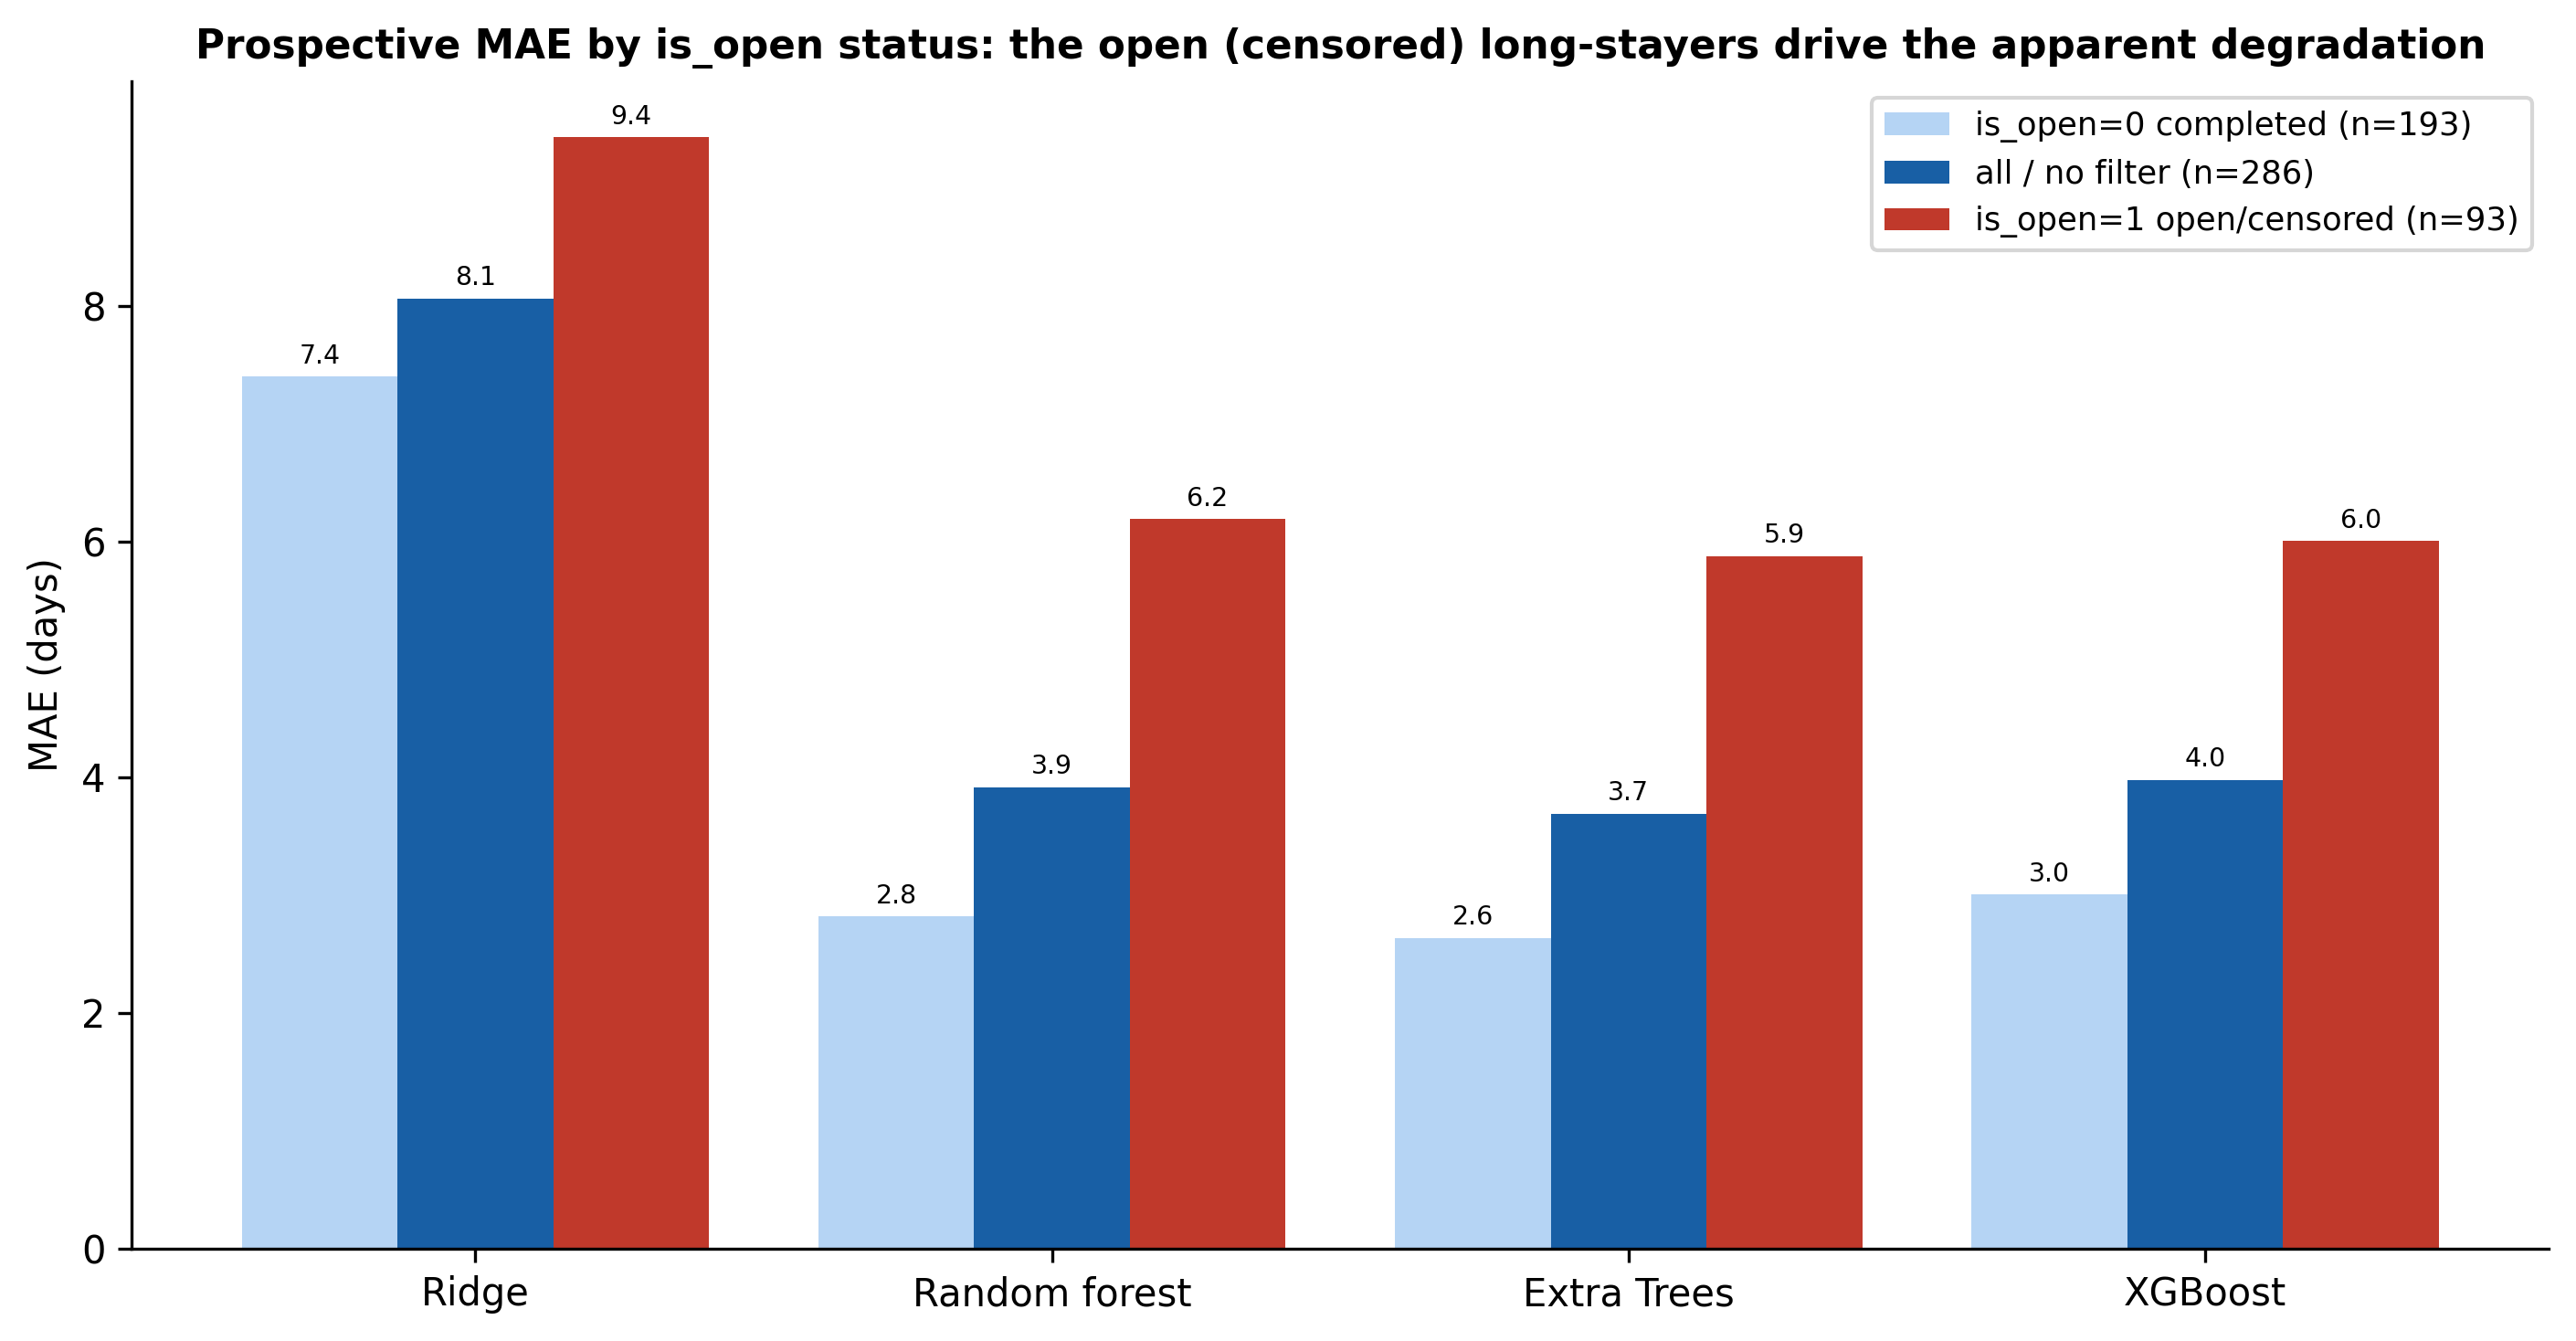
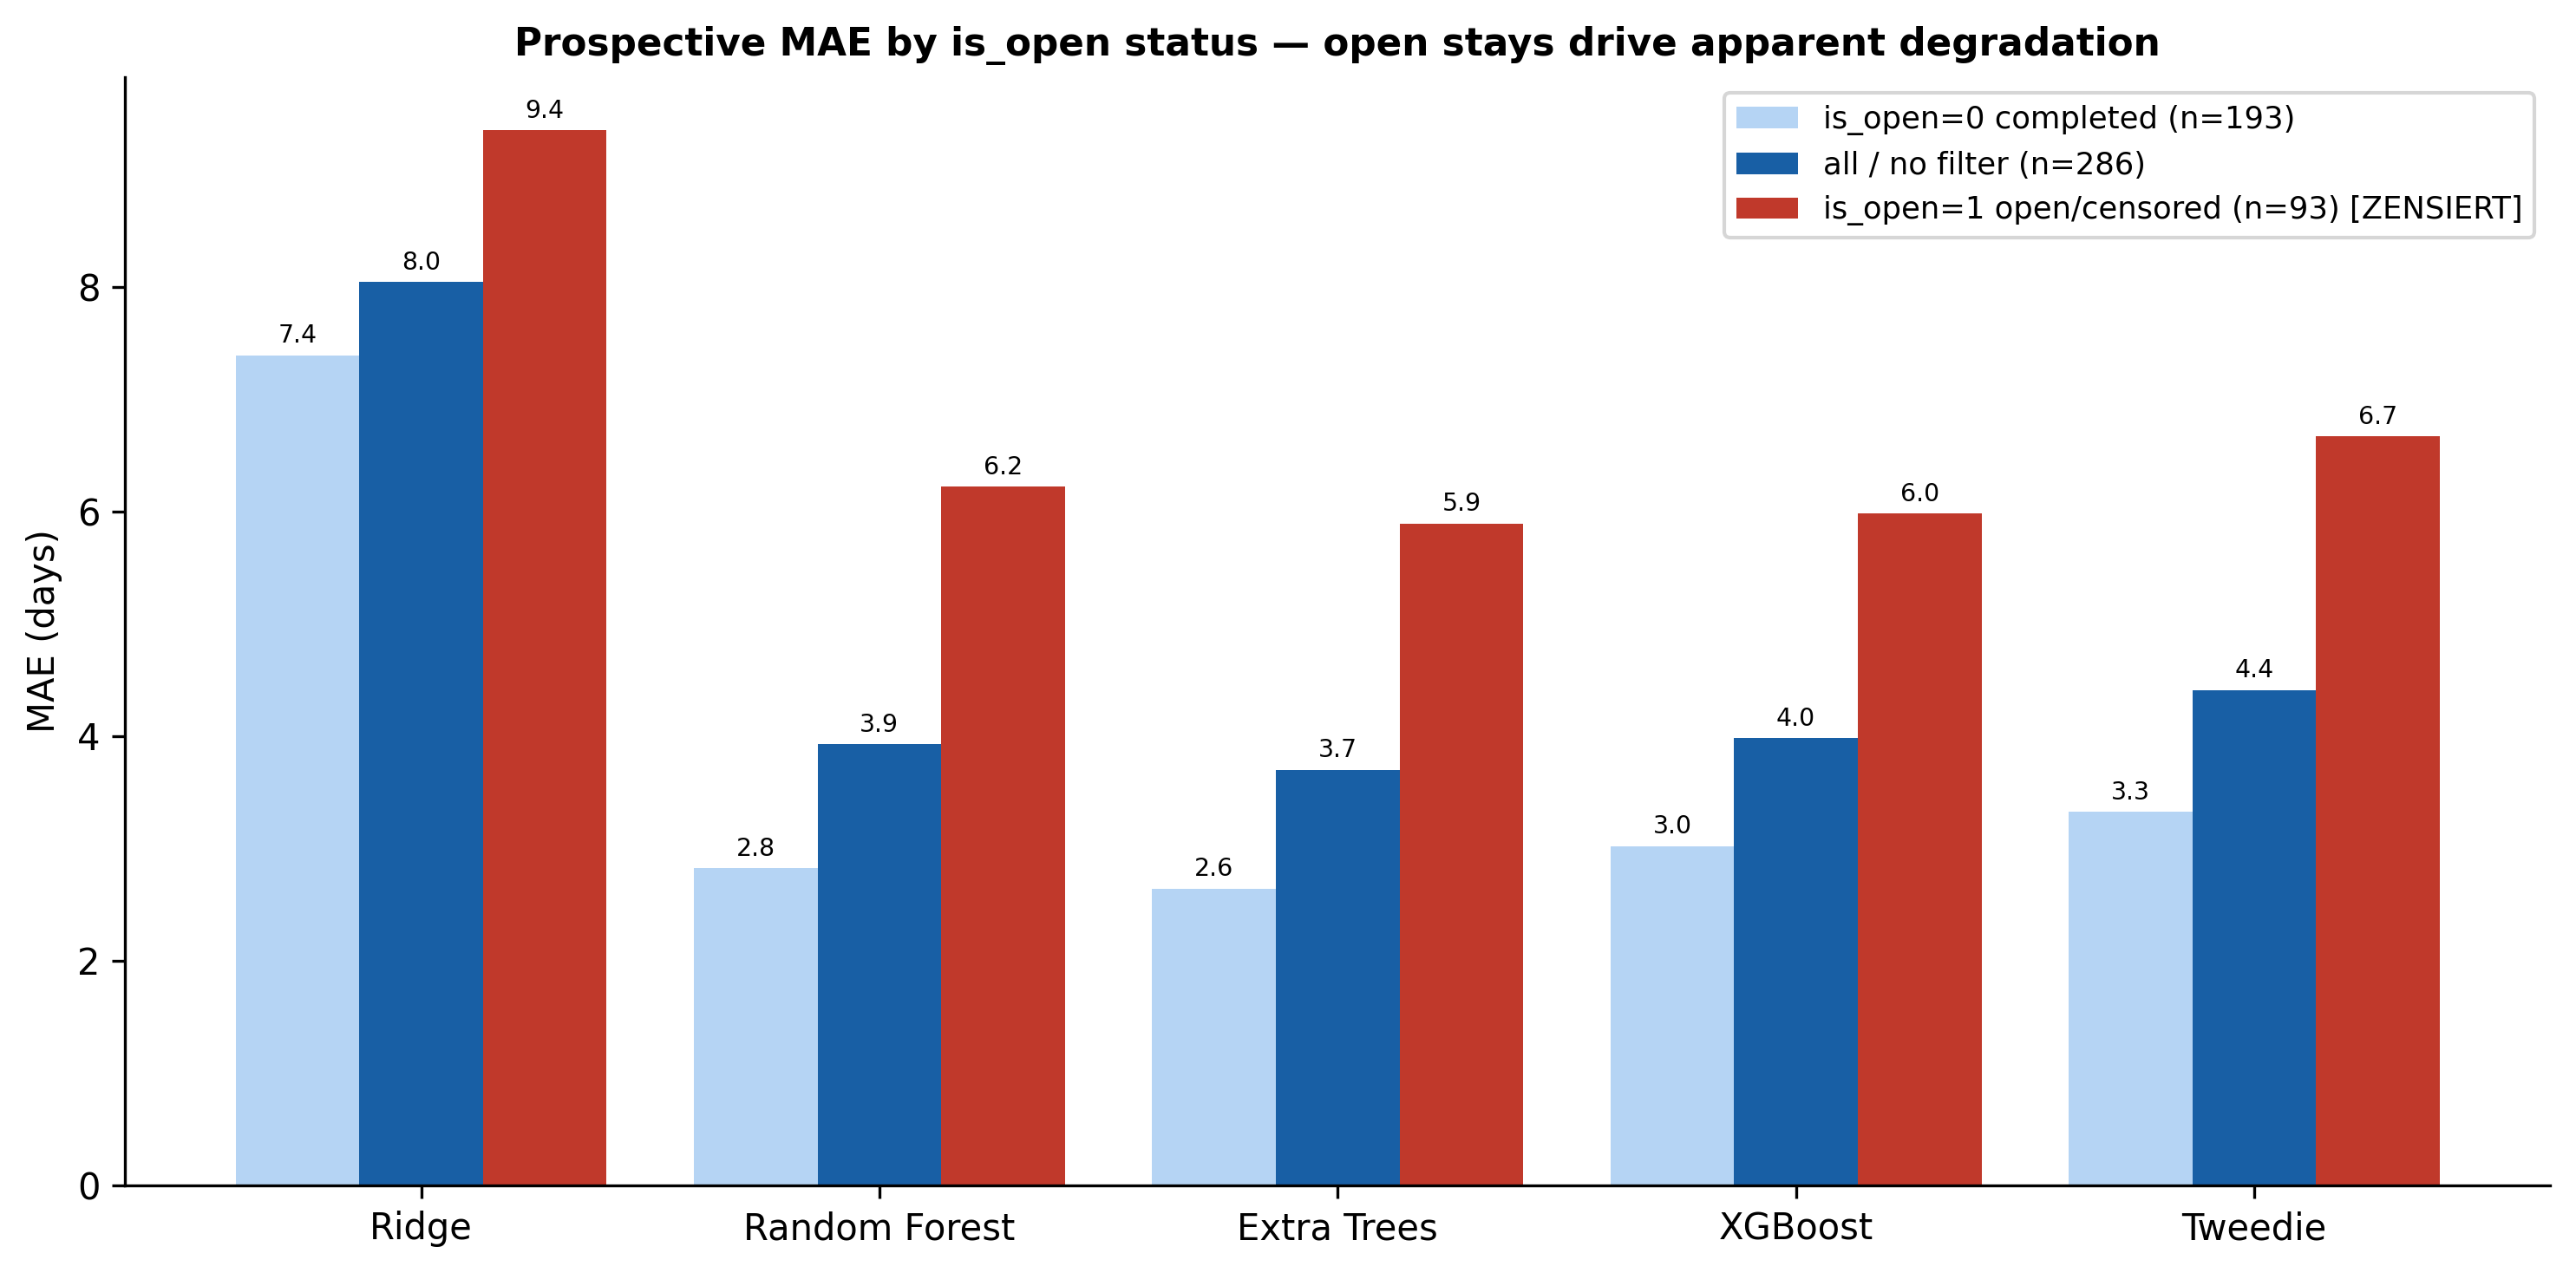
Update no_isopen exploratory: 5 models (add canonical Tweedie), new figures
- 08_no_isopen_sensitivity.py: add canonical Tweedie from summary.json (plain pipeline),
  update all model lists to 5 models, add two-panel MAE+R² figure, add 4-bin subgroup figure
- fig_model_comparison_no_isopen.png: new — retro vs prospective MAE+R² panels (5 models, n=286)
- fig_subgroup_mae_no_isopen.png: new — MAE by LoS subgroup 1-2/2-4/4-7/>7d (n=286)
- metrics_subgroups_no_isopen.csv: new — subgroup table
- updated CSVs and fig_mae_by_isopen.png to include Tweedie

diff --git a/exploratory/no_isopen/08_no_isopen_sensitivity.py b/exploratory/no_isopen/08_no_isopen_sensitivity.py
@@ -61,6 +61,7 @@ def pre(scale=False):
     ns=[("imp",SimpleImputer(strategy="median"))]+([("sc",StandardScaler())] if scale else [])
     return ColumnTransformer([("num",Pipeline(ns),numc),("cat",Pipeline([("imp",SimpleImputer(strategy="most_frequent")),("ohe",OneHotEncoder(handle_unknown="ignore"))]),cat)])
 def ttr(reg,scale=False): return TransformedTargetRegressor(Pipeline([("pre",pre(scale)),("mdl",reg)]),func=np.log1p,inverse_func=np.expm1)
+def plain(reg): return Pipeline([("pre",pre(False)),("mdl",reg)])  # Tweedie: eigener Loss/Link, kein log1p
 # beste Hyperparameter aus der kanonischen Analyse (summary.json) laden -> konsistent zum finalen Modell
 import json
 bp=json.loads((AN/"canonical"/"summary.json").read_text(encoding="utf-8"))["best_params"]
@@ -70,6 +71,8 @@ models={
  "ExtraTrees":ttr(ExtraTreesRegressor(**bp["ExtraTrees"],random_state=RS,n_jobs=1)),
  "XGBoost":ttr(XGBRegressor(**bp["XGBoost"],random_state=RS,n_jobs=1,tree_method="hist")),
 }
+if "Tweedie" in bp:
+    models["Tweedie"]=plain(XGBRegressor(objective="reg:tweedie",**bp["Tweedie"],random_state=RS,n_jobs=1,tree_method="hist"))
 print(f"Training (beste Hyperparameter aus summary.json) ... ExtraTrees={bp['ExtraTrees']}"); [m.fit(X.iloc[tr],y[tr]) for m in models.values()]
 
 # ---------------- prospektive Kohorte + Senior-Match ----------------
@@ -172,10 +175,9 @@ print(f"weiterhin per Median ersetzt: {len(miss)} ->", dict(collections.Counter(
 fillrate=pd.to_numeric(Xp[[c for c in present if c!='oebenekurz']].apply(lambda s:pd.to_numeric(s,errors='coerce')).notna().sum(axis=1))/ (len(present)-1)
 print(f"Median-Befuellungsgrad pro Stay: {fillrate.median()*100:.0f}% (min {fillrate.min()*100:.0f}%, max {fillrate.max()*100:.0f}%)")
 
-# ============ ZUSATZAUSWERTUNG: ALTER ANSATZ (ohne is_open-Korrektur) ============
-# Offene (is_open=1) Stays werden EINBEZOGEN und gegen ihre ERFASSTE LoS bewertet.
-# ACHTUNG: bei is_open=1 ist los_days ZENSIERT (Untergrenze) -> Fehler sind Artefakte
-#          des Vergleichs gegen unvollstaendige Outcomes. Nur als Sensitivitaet/Kontrast.
+# ============ AUSWERTUNG OHNE is_open-Filter (5 Modelle + Tweedie) ============
+# ACHTUNG: bei is_open=1 ist los_days ZENSIERT (bisher vergangene Zeit, nicht endgueltige LoS)
+# -> Fehler bei is_open=1-Stays sind durch zensierte Zielwerte verzerrt. Nur als Sensitivitaet.
 import matplotlib; matplotlib.use("Agg"); import matplotlib.pyplot as plt
 plt.rcParams.update({"font.family":"DejaVu Sans","axes.spines.top":False,"axes.spines.right":False})
 OUTX=AN/"exploratory_no_isopen"; OUTX.mkdir(parents=True,exist_ok=True)
@@ -183,90 +185,129 @@ OUTX=AN/"exploratory_no_isopen"; OUTX.mkdir(parents=True,exist_ok=True)
 yt=mg2["los_days"].to_numpy(float)
 isopen=pd.to_numeric(mg2["is_open"],errors="coerce").fillna(0).astype(int).to_numpy()
 arzt=mg2["arzt"].to_numpy(float)
+
 def met(y,p,label,sub=None):
     if sub is not None: y,p=y[sub],p[sub]
     p=np.clip(np.asarray(p,float),0,None); ae=np.abs(y-p)
     return {"Modell":label,"n":int(len(y)),"MAE":round(float(ae.mean()),3),"MedianAE":round(float(np.median(ae)),3),
             "RMSE":round(float(np.sqrt(mean_squared_error(y,p))),3),"R2":round(float(r2_score(y,p)),3),"Bias":round(float((p-y).mean()),3)}
+
 preds={"Oberarzt":arzt}
 for nm,m in models.items(): preds[nm]=np.clip(m.predict(Xp),0,None)
-order=["Oberarzt","Ridge","RandomForest","ExtraTrees","XGBoost"]; ml=["Ridge","RandomForest","ExtraTrees","XGBoost"]
-print(f"\nKohorte OHNE is_open-Filter: n={len(yt)} (abgeschlossen {int((isopen==0).sum())}, offen/zensiert {int((isopen==1).sum())})")
+ml_order=[m for m in ["Ridge","RandomForest","ExtraTrees","XGBoost","Tweedie"] if m in models]
+order=["Oberarzt"]+ml_order
+n0=int((isopen==0).sum()); n1=int((isopen==1).sum())
+print(f"\nKohorte OHNE is_open-Filter: n={len(yt)} (abgeschlossen {n0}, offen/zensiert {n1})")
 
-allres=pd.DataFrame([met(yt,preds[o],o) for o in order]); allres.to_csv(OUTX/"prospektiv_no_isopen_overall.csv",sep=";",index=False)
+# ---- Gesamt-Metriken ----
+allres=pd.DataFrame([met(yt,preds[o],o) for o in order])
+allres.to_csv(OUTX/"prospektiv_no_isopen_overall.csv",sep=";",index=False)
 print("\n=== PROSPEKTIV OHNE is_open-Filter (gegen erfasste/zensierte LoS) ==="); print(allres.to_string(index=False))
 A=allres.set_index("Modell")
+
+# ---- Stratifiziert nach is_open ----
 strat=[]
 for st,lab in [(isopen==0,"is_open=0 abgeschlossen"),(isopen==1,"is_open=1 offen/zensiert")]:
     for o in order: strat.append({**met(yt,preds[o],o,st),"Gruppe":lab})
 stratdf=pd.DataFrame(strat)[["Gruppe","Modell","n","MAE","MedianAE","RMSE","R2","Bias"]]
 stratdf.to_csv(OUTX/"prospektiv_no_isopen_by_isopen.csv",sep=";",index=False)
 print("\n=== Stratifiziert nach is_open ==="); print(stratdf.to_string(index=False))
+
+# ---- Vergleich is_open=0 vs ohne Filter ----
 comp=[]
 for o in order:
     c=met(yt,preds[o],o,isopen==0); a=met(yt,preds[o],o)
-    comp.append({"Modell":o,"MAE_isopen0_Manuskript":c["MAE"],"R2_isopen0":c["R2"],
-                 "MAE_ohne_Filter_alt":a["MAE"],"R2_ohne_Filter":a["R2"],"dMAE":round(a["MAE"]-c["MAE"],3)})
+    comp.append({"Modell":o,"MAE_isopen0":c["MAE"],"R2_isopen0":c["R2"],
+                 "MAE_no_filter":a["MAE"],"R2_no_filter":a["R2"],"dMAE":round(a["MAE"]-c["MAE"],3)})
 compdf=pd.DataFrame(comp); compdf.to_csv(OUTX/"prospektiv_vergleich_isopen.csv",sep=";",index=False)
-print("\n=== Vergleich: is_open=0 (Manuskript) vs ohne Filter (alt) ==="); print(compdf.to_string(index=False))
+print("\n=== Vergleich is_open=0 vs ohne Filter ==="); print(compdf.to_string(index=False))
 
-retro=pd.read_csv(AN/"canonical"/"metrics_retrospective.csv",sep=";").set_index("Modell")
-labels=["Ridge","Random forest","Extra Trees","XGBoost"]
-rt=[float(retro.loc[m,"MAE_days"]) for m in ml]; pp=[float(A.loc[m,"MAE"]) for m in ml]
-sen_mae=float(A.loc["Oberarzt","MAE"]); n_pros=len(yt); n_retro=int(retro["n"].iloc[0]); xr=np.arange(4); w=0.38
-fig,ax=plt.subplots(figsize=(9,5))
-b1=ax.bar(xr-w/2,rt,w,label=f"retrospective hold-out (n={n_retro:,})",color="#b5d4f4")
-b2=ax.bar(xr+w/2,pp,w,label=f"prospective, NO is_open filter (n={n_pros})",color="#185fa5")
-ax.bar_label(b1,fmt="%.2f",fontsize=7.5,padding=2); ax.bar_label(b2,fmt="%.2f",fontsize=7.5,padding=2,color="#1f5f9e")
-ax.axhline(sen_mae,color="#c0392b",ls="--",lw=1.6); ax.text(3,sen_mae+0.1,f"Senior physician (MAE {sen_mae:.2f} d)",color="#c0392b",ha="right",fontsize=8.5,weight="bold")
-ax.set_xticks(xr); ax.set_xticklabels(labels); ax.set_ylabel("MAE (days)")
-ax.set_title("OLD approach (no is_open correction): retrospective vs prospective MAE\nopen/censored stays included, scored against recorded LoS (a lower bound)",weight="bold",fontsize=10.5)
-ax.legend(fontsize=8.5); fig.tight_layout(); fig.savefig(str(OUTX/"fig_old_approach_retro_vs_pros.png"),dpi=300,bbox_inches="tight"); plt.close(fig)
+# ---- Figur 1: MAE + R² zwei Panels (retro vs prospektiv ohne Filter) ----
+retro_csv=pd.read_csv(AN/"canonical"/"metrics_retrospective.csv",sep=";").set_index("Modell")
+fig_order=[m for m in ["Ridge","RandomForest","ExtraTrees","XGBoost","Tweedie"] if m in retro_csv.index and m in A.index]
+fig_labels=[{"RandomForest":"Random forest","ExtraTrees":"Extra Trees"}.get(m,m) for m in fig_order]
+rt =[float(retro_csv.loc[m,"MAE_days"]) for m in fig_order]
+pp =[float(A.loc[m,"MAE"]) for m in fig_order]
+rt2=[float(retro_csv.loc[m,"R2"])       for m in fig_order]
+pp2=[float(A.loc[m,"R2"])               for m in fig_order]
+sen_mae=float(A.loc["Oberarzt","MAE"]); sen_r2=float(A.loc["Oberarzt","R2"])
+n_retro=int(retro_csv["n"].iloc[0]); n_pros=len(yt)
+xi=np.arange(len(fig_order)); w=0.38
+fig,(axA,axB)=plt.subplots(1,2,figsize=(13,4.8))
+ba1=axA.bar(xi-w/2,rt,w,label=f"retrospective hold-out (n={n_retro:,})",color="#b5d4f4")
+ba2=axA.bar(xi+w/2,pp,w,label=f"prospective, no is_open filter (n={n_pros})",color="#185fa5")
+axA.bar_label(ba1,fmt="%.2f",fontsize=7.2,padding=2,color="#555")
+axA.bar_label(ba2,fmt="%.2f",fontsize=7.2,padding=2,color="#1f5f9e")
+axA.axhline(sen_mae,color="#c0392b",ls="--",lw=1.6)
+axA.text(len(fig_order)-1,sen_mae+0.12,f"Senior physician (MAE {sen_mae:.2f} d)",color="#c0392b",ha="right",fontsize=8.5,weight="bold")
+axA.set_xticks(xi); axA.set_xticklabels(fig_labels,fontsize=9.5); axA.set_ylabel("MAE (days) — lower is better")
+axA.set_ylim(0,max(max(rt),max(pp))+1.0); axA.set_title("(A) MAE — lower is better",weight="bold",fontsize=11); axA.legend(fontsize=8.5)
+R2FLOOR=-0.35; pp2c=[max(v,R2FLOOR) for v in pp2]
+bb1=axB.bar(xi-w/2,rt2,w,label="retrospective hold-out",color="#b5d4f4")
+axB.bar(xi+w/2,pp2c,w,label="prospective (no filter)",color="#185fa5")
+axB.bar_label(bb1,fmt="%.2f",fontsize=7.2,padding=2,color="#555")
+axB.axhline(0,color="#888",lw=0.8); axB.axhline(sen_r2,color="#c0392b",ls="--",lw=1.6)
+axB.text(0,sen_r2+0.03,f"Senior physician (R² {sen_r2:.2f})",color="#c0392b",ha="left",fontsize=8.5,weight="bold")
+for i,v in enumerate(pp2):
+    if v<R2FLOOR: axB.text(xi[i]+w/2,R2FLOOR+0.02,f"{v:.1f}↓",color="white",ha="center",va="bottom",fontsize=8,weight="bold")
+    else: axB.text(xi[i]+w/2,pp2c[i]+0.01,f"{v:.2f}",color="#1f5f9e",ha="center",va="bottom",fontsize=7.2)
+axB.set_ylim(R2FLOOR,0.62); axB.set_xticks(xi); axB.set_xticklabels(fig_labels,fontsize=9.5); axB.set_ylabel("R² — higher is better")
+axB.set_title("(B) R² — higher is better",weight="bold",fontsize=11); axB.legend(fontsize=8.5,loc="upper right")
+fig.suptitle(f"Model performance: retrospective hold-out (n={n_retro:,}) vs prospective NO is_open filter (n={n_pros})\n"
+             f"[is_open=1: LoS is censored elapsed time, not final LOS — MAE artificially inflated for open stays]",weight="bold",fontsize=11)
+fig.tight_layout(); fig.savefig(str(OUTX/"fig_model_comparison_no_isopen.png"),dpi=300,bbox_inches="tight"); plt.close(fig)
+print("Figur gespeichert: fig_model_comparison_no_isopen.png")
 
-g0=[met(yt,preds[m],m,isopen==0)["MAE"] for m in ml]; ga=[float(A.loc[m,"MAE"]) for m in ml]; g1=[met(yt,preds[m],m,isopen==1)["MAE"] for m in ml]
-fig,ax=plt.subplots(figsize=(9.5,5)); w=0.27
-c0=ax.bar(xr-w,g0,w,label=f"is_open=0 completed (n={int((isopen==0).sum())})",color="#b5d4f4")
-ca=ax.bar(xr,ga,w,label=f"all / no filter (n={len(yt)})",color="#185fa5")
-c1=ax.bar(xr+w,g1,w,label=f"is_open=1 open/censored (n={int((isopen==1).sum())})",color="#c0392b")
+# ---- Figur 2: MAE nach is_open-Status (3 Balken pro Modell) ----
+g0=[met(yt,preds[m],m,isopen==0)["MAE"] for m in ml_order]
+ga=[float(A.loc[m,"MAE"]) for m in ml_order]
+g1=[met(yt,preds[m],m,isopen==1)["MAE"] for m in ml_order]
+xr4=np.arange(len(ml_order)); w3=0.27
+fig,ax=plt.subplots(figsize=(10,5))
+c0=ax.bar(xr4-w3,g0,w3,label=f"is_open=0 completed (n={n0})",color="#b5d4f4")
+ca=ax.bar(xr4,ga,w3,label=f"all / no filter (n={n_pros})",color="#185fa5")
+c1=ax.bar(xr4+w3,g1,w3,label=f"is_open=1 open/censored (n={n1}) [ZENSIERT]",color="#c0392b")
 for c in (c0,ca,c1): ax.bar_label(c,fmt="%.1f",fontsize=6.8,padding=2)
-ax.set_xticks(xr); ax.set_xticklabels(labels); ax.set_ylabel("MAE (days)")
-ax.set_title("Prospective MAE by is_open status: the open (censored) long-stayers drive the apparent degradation",weight="bold",fontsize=10.5)
+ax.set_xticks(xr4); ax.set_xticklabels([{"RandomForest":"Random Forest","ExtraTrees":"Extra Trees"}.get(m,m) for m in ml_order])
+ax.set_ylabel("MAE (days)"); ax.set_title("Prospective MAE by is_open status — open stays drive apparent degradation",weight="bold",fontsize=10.5)
 ax.legend(fontsize=8.5); fig.tight_layout(); fig.savefig(str(OUTX/"fig_mae_by_isopen.png"),dpi=300,bbox_inches="tight"); plt.close(fig)
+print("Figur gespeichert: fig_mae_by_isopen.png")
 
-# ---- Tweedie ergaenzen + manuskript-stilige Vergleichsgrafik (prospektiv OHNE is_open) ----
-from xgboost import XGBRegressor as _XGB
-def _design(frame):
-    parts=[frame[numc].apply(pd.to_numeric,errors="coerce")]
-    if cat: parts.append(pd.get_dummies(frame[cat].astype(str),prefix=cat).astype(float))
-    Z=pd.concat(parts,axis=1); Z.columns=[str(c) for c in Z.columns]; return Z
-_DC=_design(X.iloc[tr]).columns.tolist()
-def _dz(frame):
-    Z=_design(frame)
-    for c in _DC:
-        if c not in Z.columns: Z[c]=0.0
-    return Z[_DC].to_numpy(dtype=np.float64,na_value=np.nan)
-tw=_XGB(objective="reg:tweedie",tweedie_variance_power=1.5,n_estimators=600,max_depth=6,learning_rate=0.05,
-        subsample=0.8,colsample_bytree=0.8,min_child_weight=3,random_state=RS,n_jobs=-1)
-tw.fit(_dz(X.iloc[tr]), y[tr])
-tw_retro=float(np.mean(np.abs(np.clip(tw.predict(_dz(X.iloc[te])),0,None)-y[te])))
-tw_pros =float(np.mean(np.abs(np.clip(tw.predict(_dz(Xp)),0,None)-yt)))
-print(f"Tweedie: retro-Holdout MAE {tw_retro:.3f} | prospektiv ohne Filter MAE {tw_pros:.3f}")
+# ---- Figur 3: Subgruppen-MAE nach LoS-Kategorie (4 Bins) ----
+null_pred_val=float(y[tr].mean())
+sg_bins=[("1–2 d",(yt>=1)&(yt<=2)),("2–4 d",(yt>2)&(yt<=4)),("4–7 d",(yt>4)&(yt<=7)),(">7 d",yt>7)]
+all_sg_preds={"Oberarzt":arzt,**{n:np.clip(m.predict(Xp),0,None) for n,m in models.items()},"Null":np.full(len(yt),null_pred_val)}
+sg_rows=[]
+for sg_label,mask in sg_bins:
+    if mask.sum()<5: continue
+    for mod_name,pred in all_sg_preds.items():
+        ae=np.abs(yt[mask]-np.asarray(pred,float)[mask])
+        sg_rows.append({"Subgroup":sg_label,"n":int(mask.sum()),"Modell":mod_name,
+                        "MAE":round(float(ae.mean()),3),"MedianAE":round(float(np.median(ae)),3)})
+sg_df=pd.DataFrame(sg_rows); sg_df.to_csv(OUTX/"metrics_subgroups_no_isopen.csv",sep=";",index=False)
+print("\n=== MAE NACH LoS-SUBGRUPPE (ohne is_open-Filter, n=%d) ===" % len(yt))
+print(sg_df.pivot_table(index="Modell",columns="Subgroup",values="MAE").to_string())
 
-retroM=pd.read_csv(AN/"canonical"/"metrics_retrospective.csv",sep=";").set_index("Modell")
-g4=["Ridge","RandomForest","ExtraTrees","XGBoost"]; glab=["Ridge","Random Forest","Extra Trees","XGBoost","Tweedie"]
-retro_mae=[float(retroM.loc[m,"MAE_days"]) for m in g4]+[tw_retro]
-pros_mae =[float(A.loc[m,"MAE"]) for m in g4]+[tw_pros]
-sen=float(A.loc["Oberarzt","MAE"]); xr5=np.arange(5); w=0.38; CAP=4.6
-fig,ax=plt.subplots(figsize=(10,5.4))
-bR=ax.bar(xr5-w/2,np.minimum(retro_mae,CAP),w,label="retrospektiv (hold-out)",color="#b8cce4")
-bP=ax.bar(xr5+w/2,np.minimum(pros_mae,CAP),w,label=f"prospektiv ohne is_open-Filter (n={len(yt)})",color="#1f5f9e")
-for x,v in zip(xr5-w/2,retro_mae): ax.annotate((f"{v:.1f}↑" if v>CAP else f"{v:.2f}"),(x,min(v,CAP)),xytext=(0,2),textcoords="offset points",ha="center",fontsize=7,color="#444")
-for x,v in zip(xr5+w/2,pros_mae): ax.annotate((f"{v:.1f}↑" if v>CAP else f"{v:.2f}"),(x,min(v,CAP)),xytext=(0,2),textcoords="offset points",ha="center",fontsize=7,color="#1f5f9e")
-ax.axhline(sen,color="#c0392b",ls="--",lw=1.6); ax.text(4.45,sen+0.06,f"Oberarzt: MAE {sen:.2f} d",color="#c0392b",ha="right",fontsize=9,weight="bold")
-ax.set_xticks(xr5); ax.set_xticklabels(glab); ax.set_ylabel("MAE (days)"); ax.set_ylim(0,CAP+0.3)
-ax.set_title("MAE — prospektiv (ohne is_open-Filter) vs. retrospektiv (Tage)\nmit Tweedie; Bias-Hinweis: bei is_open=1 ist die LoS zensiert (Werte > 4.6 abgeschnitten ↑)",weight="bold",fontsize=11)
-ax.legend(fontsize=9,loc="upper center",ncol=2)
-fig.tight_layout(); fig.savefig(str(OUTX/"fig_vergleich_no_isopen_mit_tweedie.png"),dpi=300,bbox_inches="tight"); plt.close(fig)
+sg_order=["Oberarzt"]+[m for m in ["Ridge","RandomForest","ExtraTrees","XGBoost","Tweedie"] if m in models]+["Null"]
+sg_label_map={"Oberarzt":"Oberarzt","RandomForest":"Random Forest","ExtraTrees":"Extra Trees","Null":"Null (mean)"}
+sg_colors={"Oberarzt":"#c0392b","Ridge":"#7f8c8d","RandomForest":"#3498db","ExtraTrees":"#1a6ea3",
+           "XGBoost":"#27ae60","Tweedie":"#8e44ad","Null":"#bdc3c7"}
+bins_order=[r[0] for r in sg_bins if r[1].sum()>=5]
+ns_sg={r[0]:int(r[1].sum()) for r in sg_bins}
+xi2=np.arange(len(bins_order)); n_mods=len(sg_order); total_w=0.82; bw=total_w/n_mods
+offsets=np.linspace(-(total_w-bw)/2,(total_w-bw)/2,n_mods)
+fig,ax=plt.subplots(figsize=(13,5.2))
+for i,mod_name in enumerate(sg_order):
+    mae_vals=[float(sg_df[(sg_df["Modell"]==mod_name)&(sg_df["Subgroup"]==b)]["MAE"].iloc[0]) if len(sg_df[(sg_df["Modell"]==mod_name)&(sg_df["Subgroup"]==b)])>0 else 0 for b in bins_order]
+    bars=ax.bar(xi2+offsets[i],mae_vals,bw,label=sg_label_map.get(mod_name,mod_name),color=sg_colors.get(mod_name,"#888"))
+    ax.bar_label(bars,fmt="%.1f",fontsize=6.8,padding=2)
+ax.set_xticks(xi2); ax.set_xticklabels([f"{b}\n(n={ns_sg[b]})" for b in bins_order],fontsize=10)
+ax.set_ylabel("MAE (days) — lower is better"); ax.set_ylim(0,max(sg_df["MAE"])*1.22)
+ax.legend(fontsize=8.5,ncol=4,loc="upper left"); ax.spines[["top","right"]].set_visible(False)
+ax.set_title(f"MAE by LoS subgroup — prospective cohort WITHOUT is_open filter (n={len(yt)}, incl. {n1} censored)\n"
+             "[is_open=1 LoS = elapsed time only — MAE for open stays scored against lower bound]",weight="bold",fontsize=11)
+fig.tight_layout(); fig.savefig(str(OUTX/"fig_subgroup_mae_no_isopen.png"),dpi=300,bbox_inches="tight"); plt.close(fig)
+print("Figur gespeichert: fig_subgroup_mae_no_isopen.png")
 
-print(f"\nGespeichert in {OUTX}: 3 CSVs + 3 Figuren (inkl. fig_vergleich_no_isopen_mit_tweedie.png)")
+print(f"\nAlle Ausgaben in {OUTX}: 3 CSVs + 3 Figuren")
 con.close()